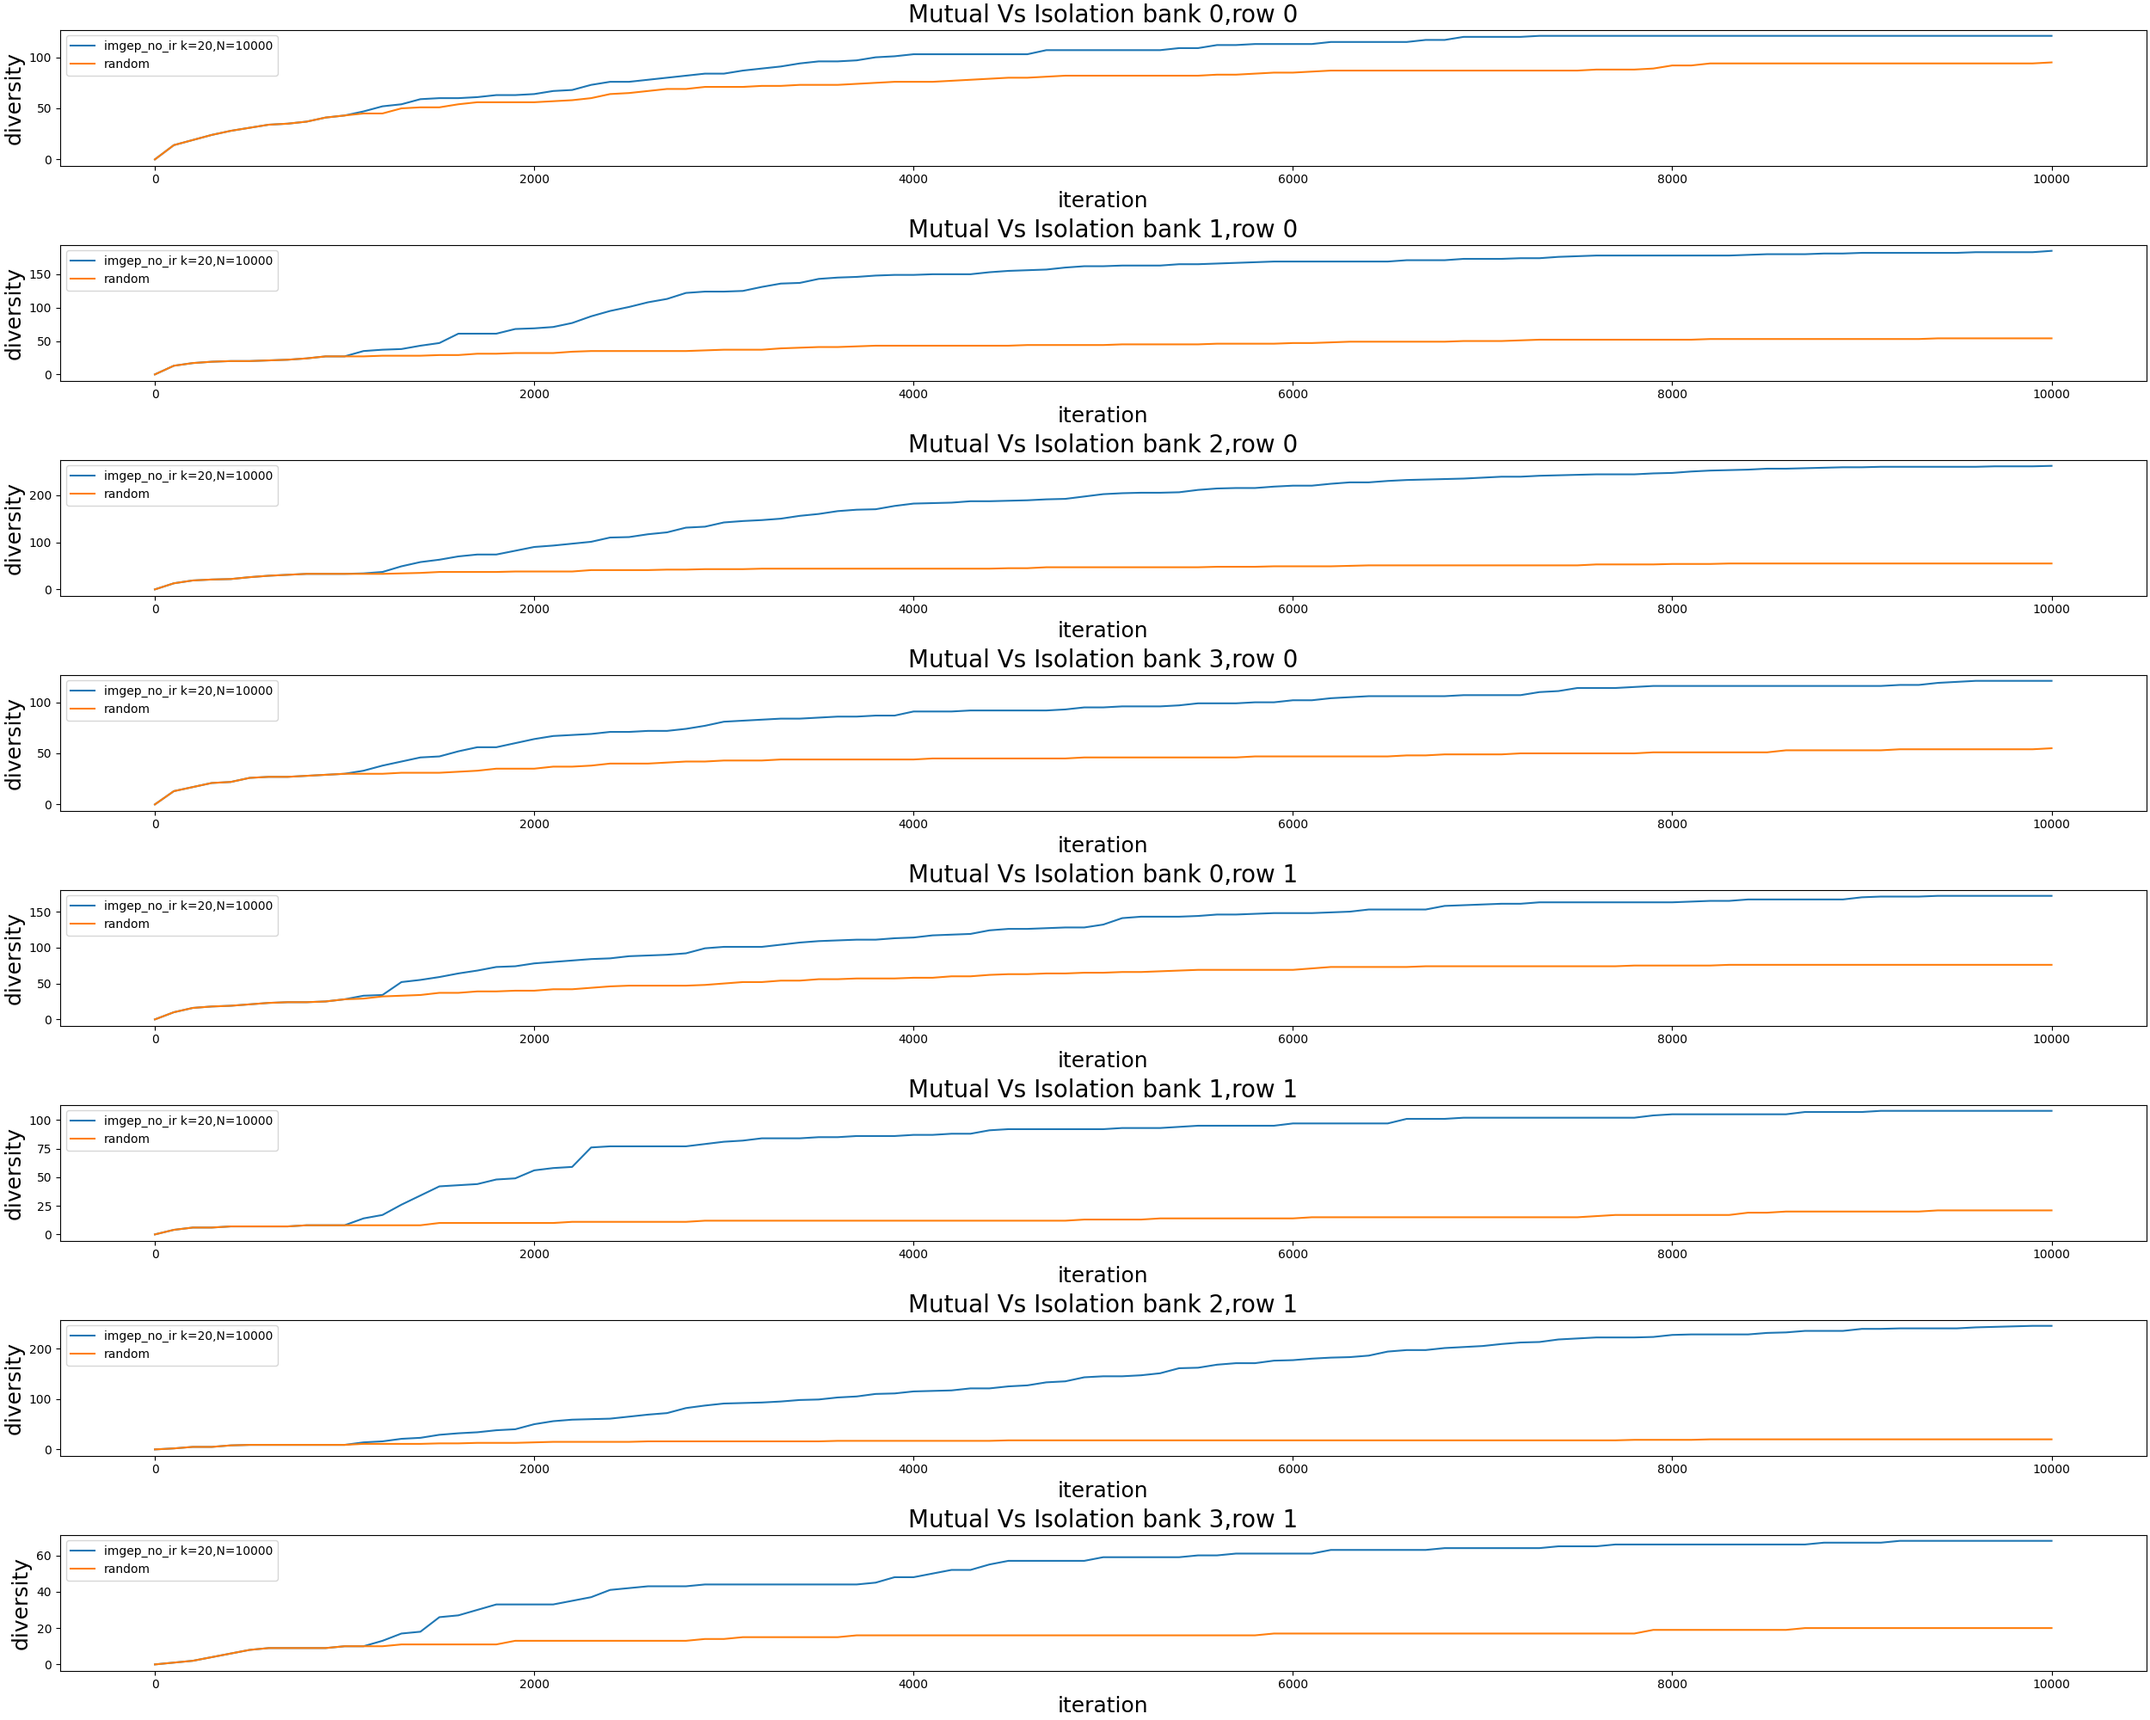
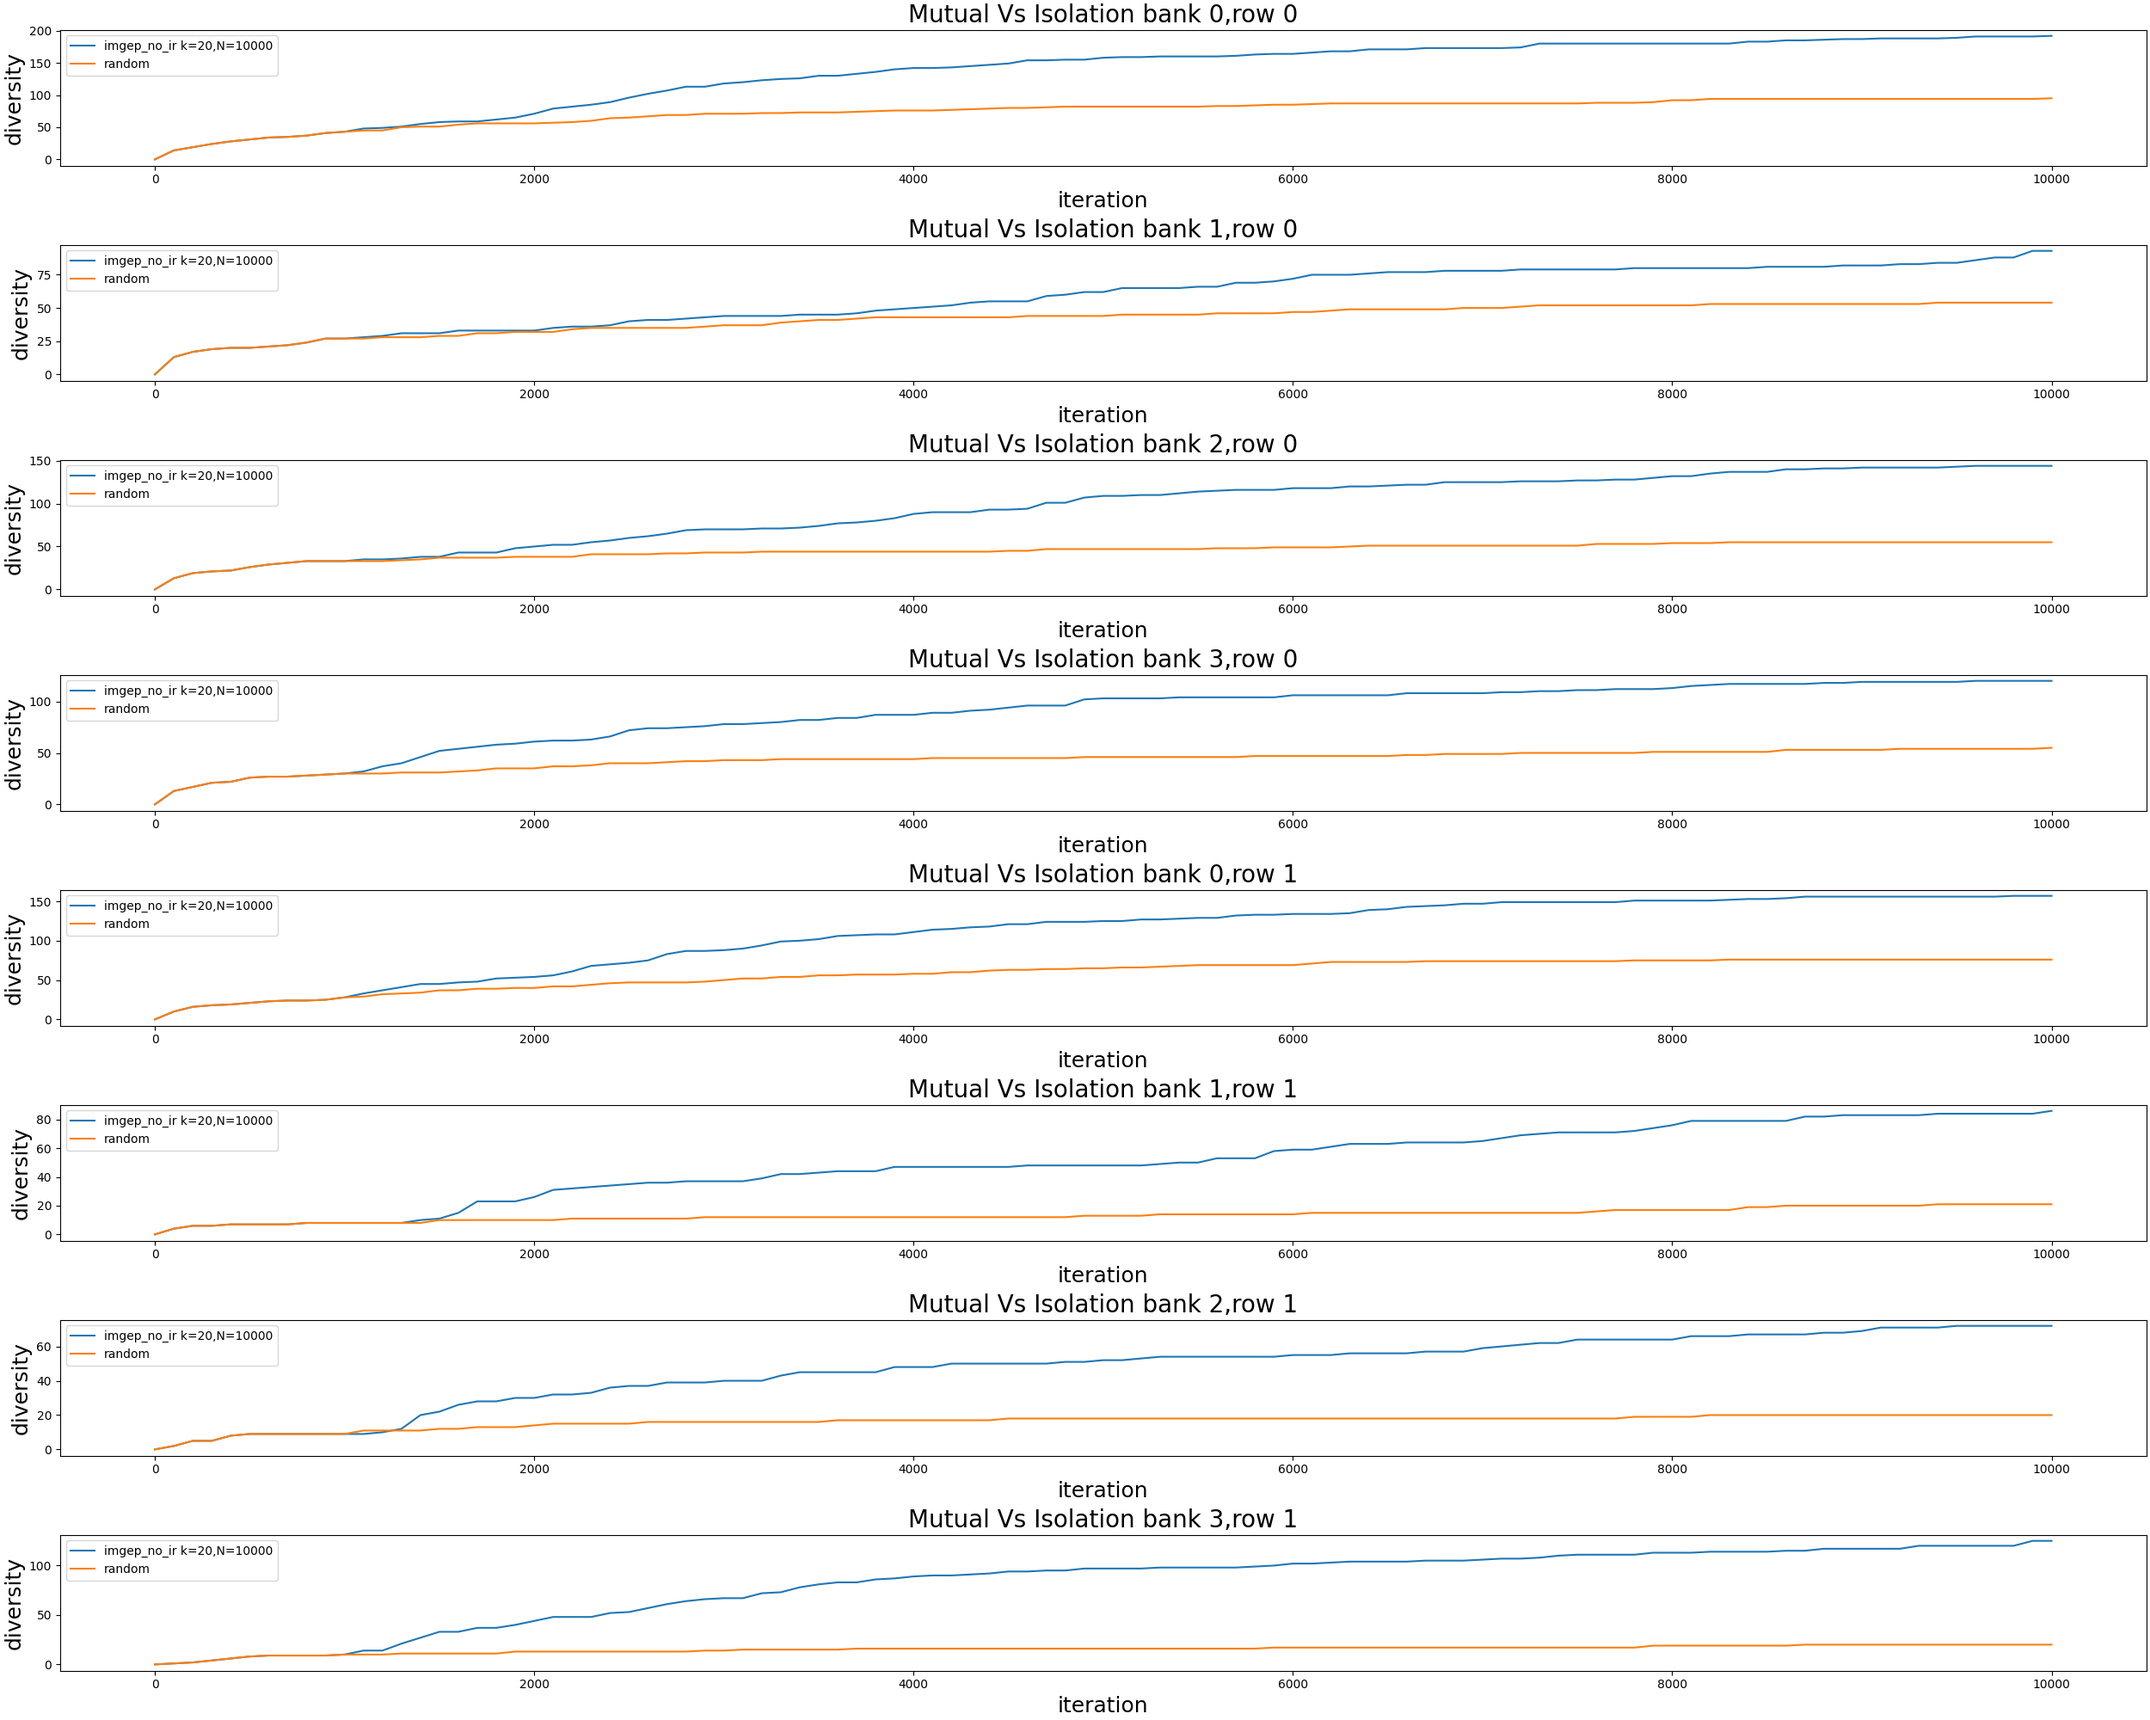
add every observables from in model in svd

diff --git a/test_svd.py b/test_svd.py
@@ -99,7 +99,6 @@ class IMGEP_:
         for j in range(len(H)):
             
             dd = {key:sample["memory_perf"][key][j] for key in sample["memory_perf"].keys() if key in pp}
-            #exit()
             H.memory_tab.append(env_observation2_subset(dd))
 
 class Normalize:
@@ -140,14 +139,16 @@ class IMGEP(IMGEP_):
             if i<self.N_init:
                 parameter = make_random_paire_list_instr(self.max_len,num_addr=self.env.num_addr)
             else:
-                if (i-self.N_init)%self.periode==0:
+                if (i-self.N_init)%(self.periode*10)==0:
                     in_ = np.array(np.array(self.H.memory_tab))
                     self.norm.fit(in_)
                     in_0 = self.norm.transform(in_)
                     U,sigma,Vh =np.linalg.svd(in_0)
                     probs = sigma/np.sum(sigma)
-                    idx_axis = np.random.choice(in_.shape[1],1,p=probs)
-                in_ = np.array(np.array(self.H.memory_tab))
+                if (i-self.N_init)%self.periode==0:
+                    #idx_axis = np.random.choice(in_.shape[1],1,p=probs)
+                    idx_axis = np.random.randint(0,in_.shape[1])
+                in_ = np.array(self.H.memory_tab)
                 coords = self.norm.transform(in_)@Vh.transpose()
                 goal = self.G(coords[:,idx_axis])
                 parameter = self.Pi(goal,self.H, coords[:,idx_axis])
@@ -166,10 +167,20 @@ if __name__=="__main__":
 
     En = Env(repetition=1,num_banks = num_bank,num_addr = num_addr)
     pp = ['shared_cache_miss',
+          'general_shared_cache_miss',
+          'miss_ratios',
+          'miss_ratios_global',
+          'miss_ratios_global0',
+          'miss_ratios_global1',
+          'miss_ratios_core0',
+          'miss_ratios_core1',
           'time_core0_together',
           'time_core1_together',
           'time_core0_alone',
           'time_core1_alone',
+          'miss_count',
+          'miss_count_core0',
+          'miss_count_core1',
           'diff_ratios_core0',
           'diff_ratios_core1',
           'diff_time0',
@@ -178,14 +189,14 @@ if __name__=="__main__":
           'miss_ratios_core0_detailled',
           'miss_ratios_core1_detailled',
     ]
-    periode  = 100
+    periode  = 20
     max_len = 50
     num_banks = 4
     num_addr = 20
     mutation_rate = 0.1
     N = 10000
     N_init = 1000
-    k =20
+    k = 2
     min_len=5
 
 

diff --git a/visu_configuration_large.py b/visu_configuration_large.py
@@ -1,0 +1,36 @@
+import json
+import os
+if __name__ == "__main__":
+    folder = ["all_data/data_large","all_data/data_large","all_data/data_weak"]
+    #folder = ["all_data/data10bis","all_data/data10bis","all_data/data_weak"]
+    #image_folder ="all_images/image10bis"
+    image_folder ="all_images/image_large"
+    N = int(10000)
+    N_init = 1000
+    ks = [20]
+    num_bank = 4
+    num_addr = 20
+    file_mix = lambda k,N: f"history_weak_{k}_N_{N}_0.pkl"
+    file_imgep_ir = lambda k,N: f"history_kNN_{k}_N_{N}_lp_0.pkl"
+    file_imgep_no_ir = lambda k,N: f"history_kNN_{k}_N_{N}_no_lp_0.pkl"
+    files = []
+#    files +=[{"folder":folder[2],"file":file_mix(k,N),"name":f"mix_programs k={k},N={N}","k":k,"N":N,"type":"mix_programs"} for k in ks]
+#    files +=[{"folder":folder[0],"file":file_imgep_ir(k,N),"name":f"imgep_ir k={k},N={N}","k":k,"N":N,"type":"imgep_ir"} for k in ks]
+    files +=[{"folder":folder[1],"file":file_imgep_no_ir(k,N),"name":f"imgep_no_ir k={k},N={N}","k":k,"N":N,"type":"imgep_no_ir"} for k in ks]
+    if os.path.exists(image_folder)==False:
+        os.system(f"mkdir {image_folder}")
+    random = {"folder":folder[0],
+                "N":N,
+                "file":f"history_rand_N_{N}_0.pkl",
+                "name": "random"}
+    config = {"files":files,
+              "N_init":N_init,
+              "N":N,
+              "image_folder":image_folder,
+              "random":random,
+              "num_bank": num_bank,
+              "num_addr":num_addr,
+              "ks":ks}
+
+    with open(f"{image_folder}/config_plots.json","w") as f:
+        json.dump(config, f)

diff --git a/visu_svd.py b/visu_svd.py
@@ -1,0 +1,36 @@
+import json
+import os
+if __name__ == "__main__":
+    folder = ["all_data/svd_results","all_data/svd_results","all_data/data_weak"]
+    #folder = ["all_data/data10bis","all_data/data10bis","all_data/data_weak"]
+    #image_folder ="all_images/image10bis"
+    image_folder ="all_images/svd"
+    N = int(10000)
+    N_init = 1000
+    ks = [2]
+    num_bank = 4
+    num_addr = 20
+    file_mix = lambda k,N: f"history_weak_{k}_N_{N}_0.pkl"
+    file_imgep_ir = lambda k,N: f"history_kNN_{k}_N_{N}_lp_0.pkl"
+    file_imgep_no_ir = lambda k,N: f"history_kNN_{k}_N_{N}_svd_0.pkl"
+    files = []
+#    files +=[{"folder":folder[2],"file":file_mix(k,N),"name":f"mix_programs k={k},N={N}","k":k,"N":N,"type":"mix_programs"} for k in ks]
+#    files +=[{"folder":folder[0],"file":file_imgep_ir(k,N),"name":f"imgep_ir k={k},N={N}","k":k,"N":N,"type":"imgep_ir"} for k in ks]
+    files +=[{"folder":folder[1],"file":file_imgep_no_ir(k,N),"name":f"imgep_svd k={k},N={N}","k":k,"N":N,"type":"imgep_no_ir"} for k in ks]
+    if os.path.exists(image_folder)==False:
+        os.system(f"mkdir {image_folder}")
+    random = {"folder":folder[0],
+                "N":N,
+                "file":f"history_rand_N_{N}_0.pkl",
+                "name": "random"}
+    config = {"files":files,
+              "N_init":N_init,
+              "N":N,
+              "image_folder":image_folder,
+              "random":random,
+              "num_bank": num_bank,
+              "num_addr":num_addr,
+              "ks":ks}
+
+    with open(f"{image_folder}/config_plots.json","w") as f:
+        json.dump(config, f)

diff --git a/exploration/env/func.py b/exploration/env/func.py
@@ -54,7 +54,6 @@ class Env:
                 "diff_ratios_core1":np.mean([np.abs(program[j].ratios - program1[j].ratios)],axis=0),
                 "diff_time0":np.mean([np.abs(program[j].compl_time_core0 - program0[j].compl_time_core0)],axis=0),
                 "diff_time1":np.mean([np.abs(program[j].compl_time_core1 - program1[j].compl_time_core1)],axis=0),
-
                 "miss_ratios_detailled":    np.mean([program[j].ratios_tab for j in range(self.repetition)],axis=0),
                 "miss_ratios_core0_detailled": np.mean([program0[j].ratios_tab for j in range(self.repetition)],axis=0),
                 "miss_ratios_core1_detailled": np.mean([program1[j].ratios_tab for j in range(self.repetition)],axis=0),

diff --git a/exploration/history.py b/exploration/history.py
@@ -38,12 +38,10 @@ class History:
                 "memory_program":{"core0":self.memory_program["core0"],"core1":self.memory_program["core1"]}}
     def save_pickle(self, name:str=None):
         k = 0
-        name = f"{name}_{k}.pkl"
         while os.path.isfile(f"{name}_{k}.pkl"):
             k+=1
-            name = f"data/{name}_{k}.pkl"
         output = self.content()
-        with open(name, "wb") as f:
+        with open(f"{name}_{k}.pkl", "wb") as f:
             pickle.dump(output, f)
     def __getitem__(self,val):
         """

diff --git a/exploration/imgep/mutation.py b/exploration/imgep/mutation.py
@@ -38,6 +38,7 @@ def mutate_instructions(instructions:list[dict],
     
     # Now perform random mutations
     num_mutations = max(0, int(len(mutated) * mutation_rate))
+    num_mutations = 1
     
     for _ in range(num_mutations):
         choices = ['change','delete', 'add']

diff --git a/README.md b/README.md
@@ -172,6 +172,11 @@ Same strategy with kNN here.
 I compare k-NN goal strategy achievement IMGEP with:
 * a random exploration : the warm up for imgep is done by selecting the $Ninit$ first iterations.
 * a strategy of mixing k programs selected at random: I found out that this brings slightly more diversity but clearly not as much as imgep.
+## IMGEP with SVD
+Mention dimensional representation techniques
+
+Let consider $F\in\mathbb{N}$ features, and $N>>1$ individual in our matrix database $A\in\mathcal{M}}{N,F}$
+We can then determine a singual value decomposition like : $A = U\Sigma V^{T}$
 ## Results
 
 The result of an exploration with **kNN** with k=1,2,3,4. IMGEP is compared with a random exploration for `N=10000` iterations, with `N_init = 1000` steps for initialization. 
